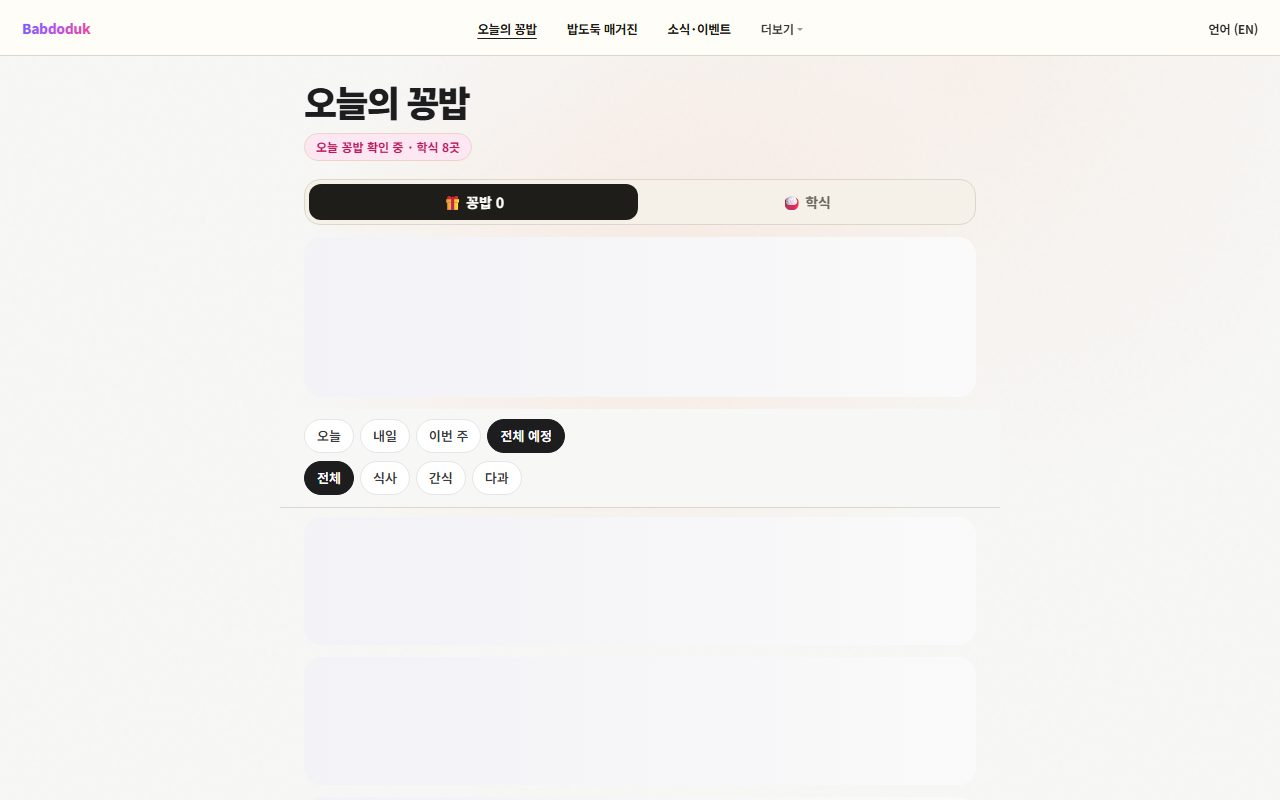
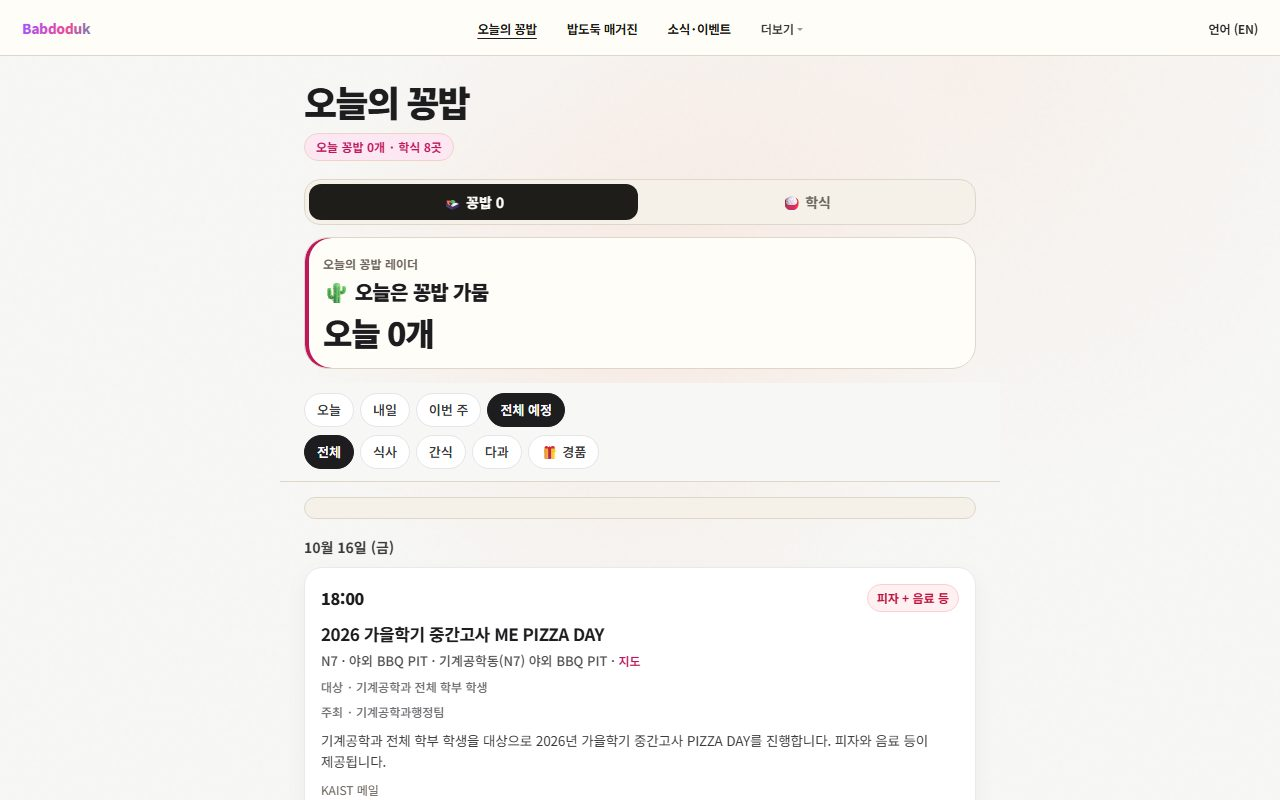
docs(readme): the Radar reads whole mails, giveaway listings and the world cup splash
New ggongbab and world cup screenshots from babdoduk-lab, and a short list of what
landed on lab: whole-mail and poster reading, the giveaway badge and filter, the
"poster basis" mark, the 8강/4강 splash and the final crash.

Agent: Claude

diff --git a/README.md b/README.md
@@ -9,13 +9,20 @@
 | 홈 | 오늘의 꽁밥 |
 |---|---|
 | ![홈 화면](docs/readme/home.jpg) | ![오늘의 꽁밥 화면](docs/readme/ggongbab.jpg) |
-| 오늘의 꽁밥 달력과 학식 한 줄로 시작해요. | 지금 참여할 수 있는 무료 음식 일정과 이번 주 학식. |
+| 오늘의 꽁밥 달력과 학식 한 줄로 시작해요. | 지금 참여할 수 있는 무료 음식 일정과 이번 주 학식. 🎁 경품 행사는 따로 모아 봐요. |
 | **밥도둑 매거진** | **소식·이벤트** |
 | ![밥도둑 매거진 화면](docs/readme/magazine.jpg) | ![소식·이벤트 화면](docs/readme/event.jpg) |
 | 음식 이야기와 '오늘 뭐 먹지?' 메뉴 고르기. | 밥도둑이 연 활동과 지난 기록. |
 | **먹방 월드컵** | **역사** |
 | ![먹방 월드컵 화면](docs/readme/worldcup.jpg) | ![역사 화면](docs/readme/history.jpg) |
-| 700개가 넘는 메뉴 중 32개가 맞붙는 놀이. | 밥도둑이 걸어온 길. |
+| 700개가 넘는 메뉴 중 32개가 맞붙는 놀이. 8강부터는 검은 화면 "진출!", 결승은 두 카드가 부딪혀요. | 밥도둑이 걸어온 길. |
+
+### 최근 lab에 들어온 것
+
+- **꽁밥 레이더**가 Dooray 메일을 통째로 읽어요. 첨부(PDF·HWP 등)와 포스터까지 보고, 안 읽은 메일도 읽은 뒤 안 읽음 표시를 되돌려 놓아요.
+- **🎁 경품** 행사는 배지와 필터로 따로 보여 주고, 무료 음식 개수에는 세지 않아요.
+- 포스터에서만 읽은 음식 정보에는 "포스터 기준"이라고 표시해요.
+- **먹방 월드컵**은 8강·4강에서 "진출!" 화면이 나오고, 결승에서는 두 카드가 부딪히는 장면이 나와요.
 
 <img src="docs/readme/home-phone.jpg" alt="휴대폰에서 본 홈" width="240" align="right" />
 
